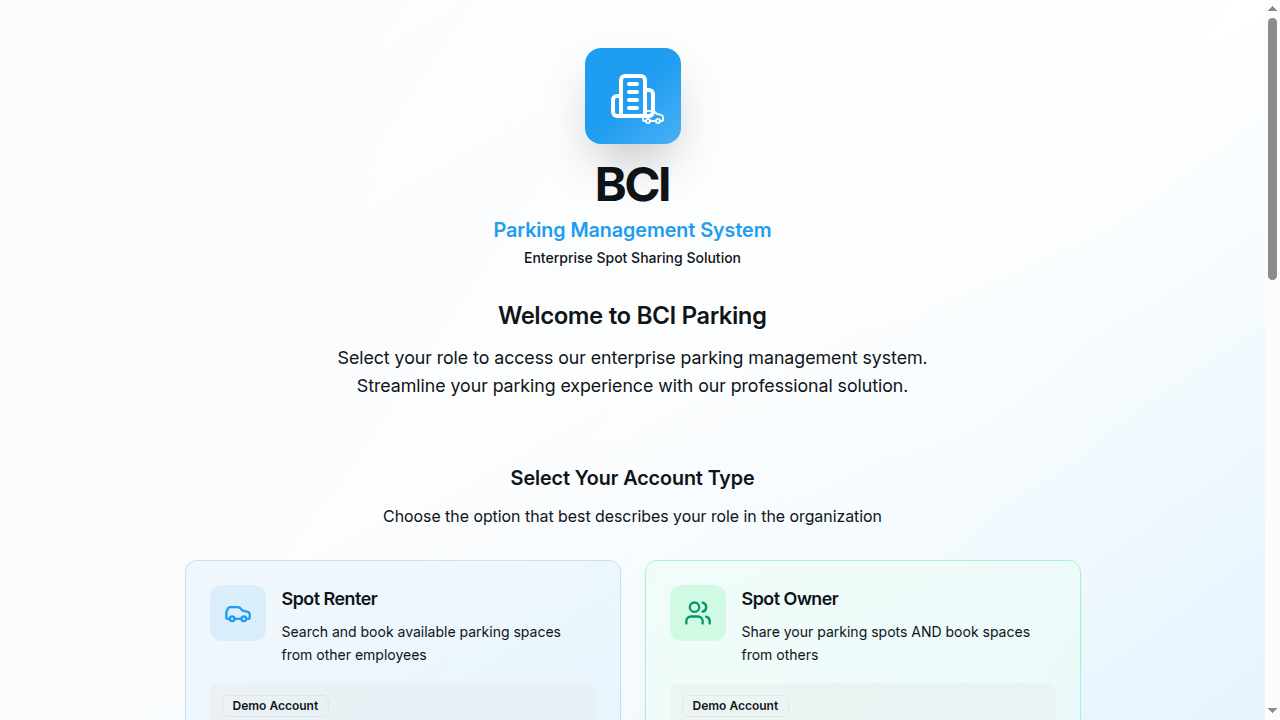
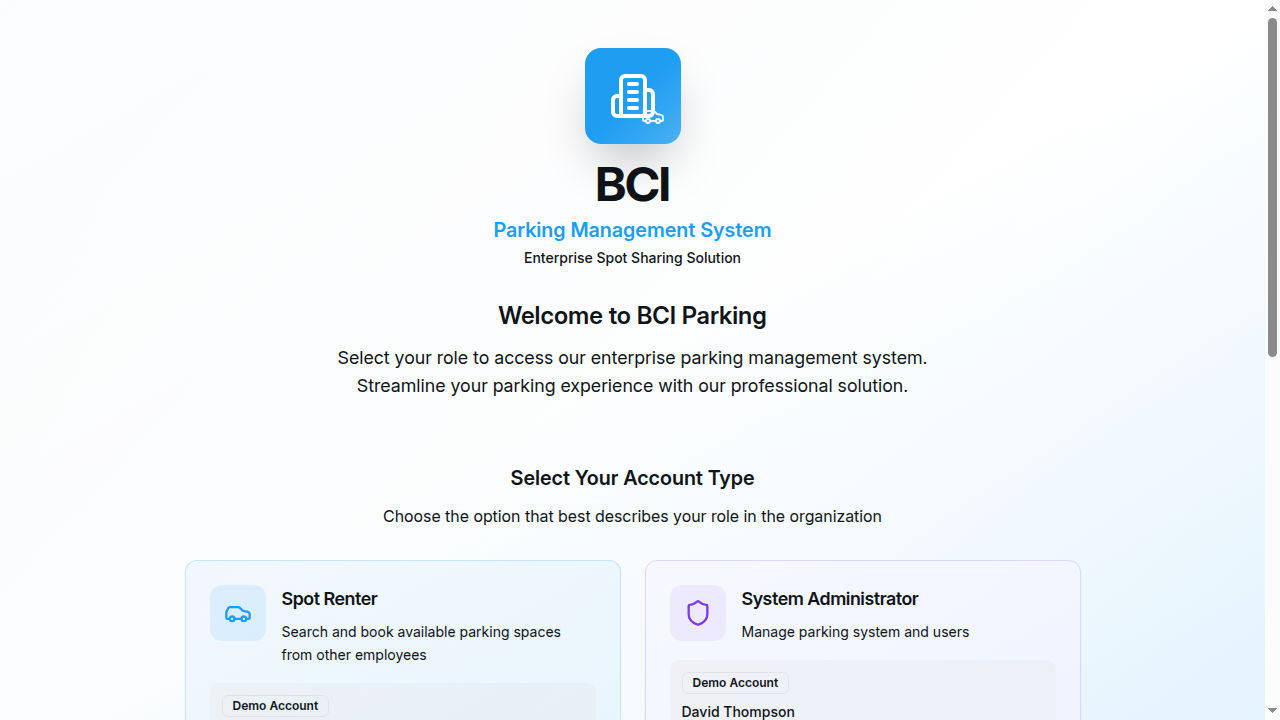
Update user management interface to respect selected language
Refactor the admin user management page and language context to use translation keys for all user-facing strings, ensuring multilingual support.

Replit-Commit-Author: Agent
Replit-Commit-Session-Id: 14d98da4-33c6-4c90-a7a6-9cdcb5b8c554
Replit-Commit-Checkpoint-Type: intermediate_checkpoint
Replit-Commit-Screenshot-Url: https://storage.googleapis.com/screenshot-production-us-central1/5af2ed34-e1ec-4a06-8291-9a0071755b92/14d98da4-33c6-4c90-a7a6-9cdcb5b8c554/5tkdGtq

Changed region(s): [[0.5, 0.7944, 0.8125, 0.9167], [0.5312, 0.9472, 0.625, 1.0], [0.9688, 0.3972, 1.0, 0.4889]]

diff --git a/client/src/pages/admin-user-management.tsx b/client/src/pages/admin-user-management.tsx
@@ -582,9 +582,9 @@ export default function AdminUserManagement() {
     <div className="p-6 space-y-6" data-testid="page-admin-users">
       <div className="flex items-center justify-between">
         <div>
-          <h1 className="text-3xl font-bold">User Management</h1>
+          <h1 className="text-3xl font-bold">{t("admin.userManagement.title")}</h1>
           <p className="text-muted-foreground">
-            Manage user accounts, roles, and permissions across the parking system.
+            {t("admin.userManagement.description")}
           </p>
         </div>
         <div className="flex gap-2">
@@ -614,7 +614,7 @@ export default function AdminUserManagement() {
                 aria-label="Refresh all user data"
               >
                 <RefreshCw className={`h-4 w-4 mr-2 ${isLoadingUsers ? 'animate-spin' : ''}`} />
-                Refresh
+                {t("common.refresh")}
               </Button>
             </TooltipTrigger>
             <TooltipContent>
@@ -627,7 +627,7 @@ export default function AdminUserManagement() {
                 <DialogTrigger asChild>
                   <Button data-testid="button-add-user">
                     <UserPlus className="h-4 w-4 mr-2" />
-                    Add User
+                    {t("admin.userManagement.addUser")}
                   </Button>
                 </DialogTrigger>
               </TooltipTrigger>
@@ -1145,7 +1145,7 @@ export default function AdminUserManagement() {
             >
               <CardHeader className="pb-2">
                 <div className="flex items-center justify-between">
-                  <CardTitle className="text-sm font-medium text-muted-foreground">Administrators</CardTitle>
+                  <CardTitle className="text-sm font-medium text-muted-foreground">{t("admin.userManagement.administrators")}</CardTitle>
                   <Tooltip>
                     <TooltipTrigger asChild>
                       <Button
@@ -1168,7 +1168,7 @@ export default function AdminUserManagement() {
                 <div className="text-2xl font-bold">
                   {isLoadingUsers ? "..." : roleStats.admin}
                 </div>
-                <Badge variant="outline" className="text-xs bg-blue-50 text-blue-700 border-blue-200">System access</Badge>
+                <Badge variant="outline" className="text-xs bg-blue-50 text-blue-700 border-blue-200">{t("admin.userManagement.systemAccess")}</Badge>
               </CardContent>
               <div id="admin-card-description" className="sr-only">
                 Filter to show only administrators with full system access and user management privileges
@@ -1192,7 +1192,7 @@ export default function AdminUserManagement() {
             >
               <CardHeader className="pb-2">
                 <div className="flex items-center justify-between">
-                  <CardTitle className="text-sm font-medium text-muted-foreground">Spot Owners</CardTitle>
+                  <CardTitle className="text-sm font-medium text-muted-foreground">{t("admin.userManagement.spotOwners")}</CardTitle>
                   <Tooltip>
                     <TooltipTrigger asChild>
                       <Button
@@ -1215,7 +1215,7 @@ export default function AdminUserManagement() {
                 <div className="text-2xl font-bold">
                   {isLoadingUsers ? "..." : roleStats.owner}
                 </div>
-                <Badge variant="outline" className="text-xs bg-green-50 text-green-700 border-green-200">Revenue generators</Badge>
+                <Badge variant="outline" className="text-xs bg-green-50 text-green-700 border-green-200">{t("admin.userManagement.revenueGenerators")}</Badge>
               </CardContent>
               <div id="owner-card-description" className="sr-only">
                 Filter to show only spot owners who can list parking spaces for rental and earn revenue
@@ -1239,7 +1239,7 @@ export default function AdminUserManagement() {
             >
               <CardHeader className="pb-2">
                 <div className="flex items-center justify-between">
-                  <CardTitle className="text-sm font-medium text-muted-foreground">Renters</CardTitle>
+                  <CardTitle className="text-sm font-medium text-muted-foreground">{t("admin.userManagement.renters")}</CardTitle>
                   <Tooltip>
                     <TooltipTrigger asChild>
                       <Button
@@ -1262,7 +1262,7 @@ export default function AdminUserManagement() {
                 <div className="text-2xl font-bold">
                   {isLoadingUsers ? "..." : roleStats.renter}
                 </div>
-                <Badge variant="outline" className="text-xs bg-purple-50 text-purple-700 border-purple-200">Regular users</Badge>
+                <Badge variant="outline" className="text-xs bg-purple-50 text-purple-700 border-purple-200">{t("admin.userManagement.regularUsers")}</Badge>
               </CardContent>
               <div id="renter-card-description" className="sr-only">
                 Filter to show only renters who book parking spaces but don't own spots
@@ -1286,7 +1286,7 @@ export default function AdminUserManagement() {
             >
               <CardHeader className="pb-2">
                 <div className="flex items-center justify-between">
-                  <CardTitle className="text-sm font-medium text-muted-foreground">All Users</CardTitle>
+                  <CardTitle className="text-sm font-medium text-muted-foreground">{t("admin.userManagement.allUsers")}</CardTitle>
                   <Tooltip>
                     <TooltipTrigger asChild>
                       <Button
@@ -1309,7 +1309,7 @@ export default function AdminUserManagement() {
                 <div className="text-2xl font-bold">
                   {isLoadingUsers ? "..." : allUsers.length}
                 </div>
-                <Badge variant="outline" className="text-xs bg-gray-50 text-gray-700 border-gray-200">Total count</Badge>
+                <Badge variant="outline" className="text-xs bg-gray-50 text-gray-700 border-gray-200">{t("admin.userManagement.totalCount")}</Badge>
               </CardContent>
               <div id="all-card-description" className="sr-only">
                 Clear role filters to display all users regardless of their assigned role

diff --git a/client/src/contexts/language-context.tsx b/client/src/contexts/language-context.tsx
@@ -363,6 +363,19 @@ const translations: Record<Language, Translations> = {
     "admin.spots": "Spots",
     "admin.bookings": "Bookings",
 
+    // Admin User Management
+    "admin.userManagement.title": "User Management",
+    "admin.userManagement.description": "Manage user accounts, roles, and permissions across the parking system.",
+    "admin.userManagement.addUser": "Add User",
+    "admin.userManagement.administrators": "Administrators",
+    "admin.userManagement.spotOwners": "Spot Owners",
+    "admin.userManagement.renters": "Renters",
+    "admin.userManagement.allUsers": "All Users",
+    "admin.userManagement.systemAccess": "System access",
+    "admin.userManagement.revenueGenerators": "Revenue generators",
+    "admin.userManagement.regularUsers": "Regular users",
+    "admin.userManagement.totalCount": "Total count",
+
     // Departments
     "department.engineering": "Engineering",
     "department.marketing": "Marketing",
@@ -866,6 +879,19 @@ const translations: Record<Language, Translations> = {
     "admin.role": "Rôle",
     "admin.spots": "Places",
     "admin.bookings": "Réservations",
+
+    // Admin User Management
+    "admin.userManagement.title": "Gestion des Utilisateurs",
+    "admin.userManagement.description": "Gérez les comptes utilisateurs, les rôles et les permissions dans le système de stationnement.",
+    "admin.userManagement.addUser": "Ajouter un Utilisateur",
+    "admin.userManagement.administrators": "Administrateurs",
+    "admin.userManagement.spotOwners": "Propriétaires de Places",
+    "admin.userManagement.renters": "Locataires",
+    "admin.userManagement.allUsers": "Tous les Utilisateurs",
+    "admin.userManagement.systemAccess": "Accès système",
+    "admin.userManagement.revenueGenerators": "Générateurs de revenus",
+    "admin.userManagement.regularUsers": "Utilisateurs réguliers",
+    "admin.userManagement.totalCount": "Nombre total",
 
     // Departments
     "department.engineering": "Ingénierie",
